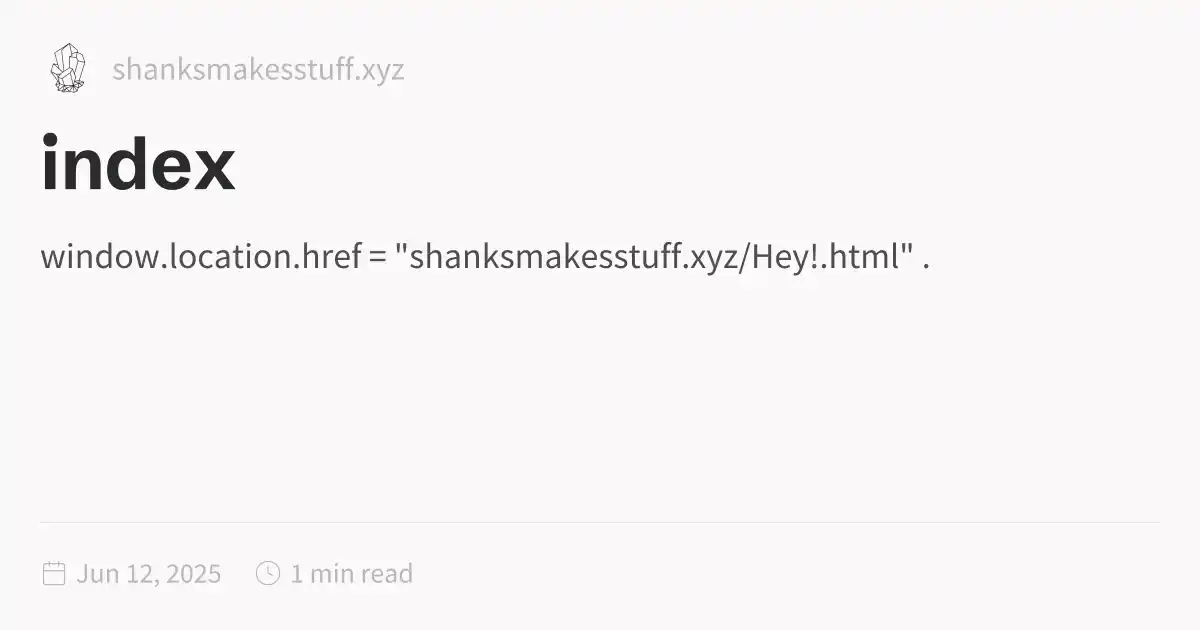
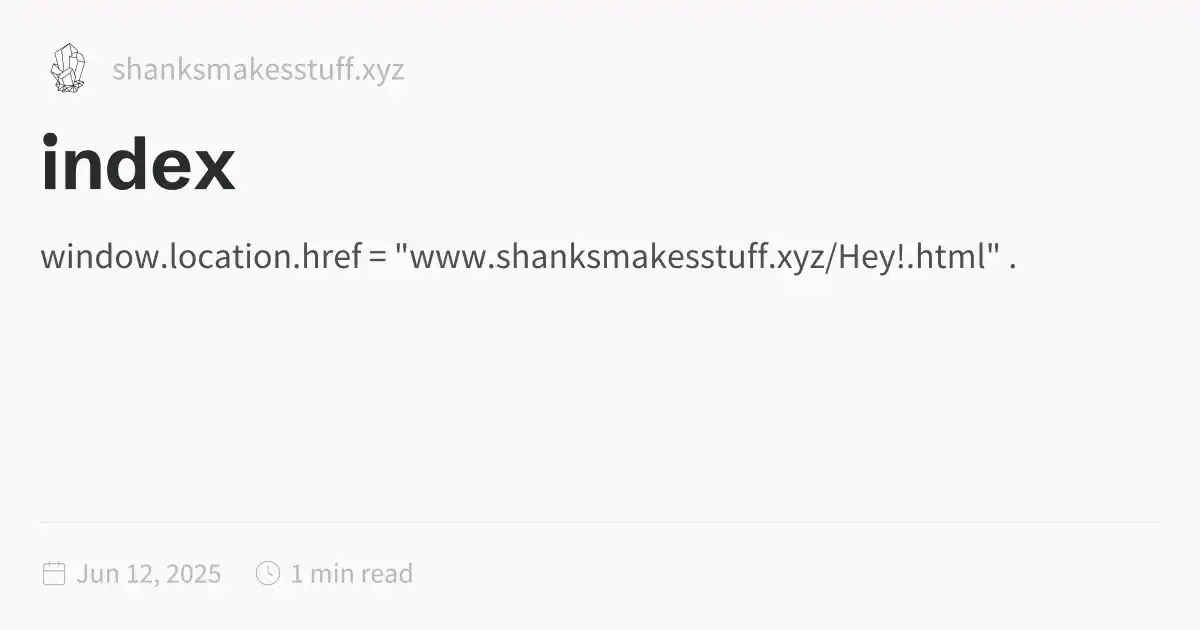
2025-06-12_1924

Changed region(s): [[0.3392, 0.3619, 0.8325, 0.4524]]

diff --git a/index.html b/index.html
@@ -1,5 +1,5 @@
 <!DOCTYPE html>
-<html lang="en"><head><title>index</title><meta charset="utf-8"/><link rel="preconnect" href="https://fonts.googleapis.com"/><link rel="preconnect" href="https://fonts.gstatic.com"/><link rel="stylesheet" href="https://fonts.googleapis.com/css2?family=Schibsted Grotesk:wght@400;700&amp;family=Source Sans Pro:ital,wght@0,400;0,600;1,400;1,600&amp;family=IBM Plex Mono:wght@400;600&amp;display=swap"/><link rel="preconnect" href="https://cdnjs.cloudflare.com" crossorigin="anonymous"/><meta name="viewport" content="width=device-width, initial-scale=1.0"/><meta name="og:site_name" content="ShanksMakesStuff"/><meta property="og:title" content="index"/><meta property="og:type" content="website"/><meta name="twitter:card" content="summary_large_image"/><meta name="twitter:title" content="index"/><meta name="twitter:description" content="window.location.href = &quot;shanksmakesstuff.xyz/Hey!.html&quot; ."/><meta property="og:description" content="window.location.href = &quot;shanksmakesstuff.xyz/Hey!.html&quot; ."/><meta property="og:image:alt" content="window.location.href = &quot;shanksmakesstuff.xyz/Hey!.html&quot; ."/><meta property="twitter:domain" content="shanksmakesstuff.xyz"/><meta property="og:url" content="https://shanksmakesstuff.xyz/index"/><meta property="twitter:url" content="https://shanksmakesstuff.xyz/index"/><link rel="icon" href="./static/icon.png"/><meta name="description" content="window.location.href = &quot;shanksmakesstuff.xyz/Hey!.html&quot; ."/><meta name="generator" content="Quartz"/><link href="./index.css" rel="stylesheet" type="text/css" spa-preserve/><style>.expand-button {
+<html lang="en"><head><title>index</title><meta charset="utf-8"/><link rel="preconnect" href="https://fonts.googleapis.com"/><link rel="preconnect" href="https://fonts.gstatic.com"/><link rel="stylesheet" href="https://fonts.googleapis.com/css2?family=Schibsted Grotesk:wght@400;700&amp;family=Source Sans Pro:ital,wght@0,400;0,600;1,400;1,600&amp;family=IBM Plex Mono:wght@400;600&amp;display=swap"/><link rel="preconnect" href="https://cdnjs.cloudflare.com" crossorigin="anonymous"/><meta name="viewport" content="width=device-width, initial-scale=1.0"/><meta name="og:site_name" content="ShanksMakesStuff"/><meta property="og:title" content="index"/><meta property="og:type" content="website"/><meta name="twitter:card" content="summary_large_image"/><meta name="twitter:title" content="index"/><meta name="twitter:description" content="window.location.href = &quot;www.shanksmakesstuff.xyz/Hey!.html&quot; ."/><meta property="og:description" content="window.location.href = &quot;www.shanksmakesstuff.xyz/Hey!.html&quot; ."/><meta property="og:image:alt" content="window.location.href = &quot;www.shanksmakesstuff.xyz/Hey!.html&quot; ."/><meta property="twitter:domain" content="shanksmakesstuff.xyz"/><meta property="og:url" content="https://shanksmakesstuff.xyz/index"/><meta property="twitter:url" content="https://shanksmakesstuff.xyz/index"/><link rel="icon" href="./static/icon.png"/><meta name="description" content="window.location.href = &quot;www.shanksmakesstuff.xyz/Hey!.html&quot; ."/><meta name="generator" content="Quartz"/><link href="./index.css" rel="stylesheet" type="text/css" spa-preserve/><style>.expand-button {
   position: absolute;
   display: flex;
   float: right;
@@ -116,8 +116,8 @@ pre:hover > .expand-button {
   padding: 0 12px;
   font-size: 14px;
 }
[1 lines of base64/hex data omitted]
-	window.location.href = &quot;shanksmakesstuff.xyz/Hey!.html&quot; 
[1 lines of base64/hex data omitted]
+	window.location.href = &quot;https://www.shanksmakesstuff.xyz/Hey!.html&quot; 
 </script></article><hr/><div class="page-footer"></div></div><div class="right sidebar"><div class="graph"><h3>Graph View</h3><div class="graph-outer"><div class="graph-container" data-cfg="{&quot;drag&quot;:true,&quot;zoom&quot;:true,&quot;depth&quot;:1,&quot;scale&quot;:1.1,&quot;repelForce&quot;:0.5,&quot;centerForce&quot;:0.3,&quot;linkDistance&quot;:30,&quot;fontSize&quot;:0.6,&quot;opacityScale&quot;:1,&quot;showTags&quot;:true,&quot;removeTags&quot;:[],&quot;focusOnHover&quot;:false,&quot;enableRadial&quot;:false}"></div><button class="global-graph-icon" aria-label="Global Graph"><svg version="1.1" xmlns="http://www.w3.org/2000/svg" xmlns:xlink="http://www.w3.org/1999/xlink" x="0px" y="0px" viewBox="0 0 55 55" fill="currentColor" xml:space="preserve"><path d="M49,0c-3.309,0-6,2.691-6,6c0,1.035,0.263,2.009,0.726,2.86l-9.829,9.829C32.542,17.634,30.846,17,29,17
                 s-3.542,0.634-4.898,1.688l-7.669-7.669C16.785,10.424,17,9.74,17,9c0-2.206-1.794-4-4-4S9,6.794,9,9s1.794,4,4,4
                 c0.74,0,1.424-0.215,2.019-0.567l7.669,7.669C21.634,21.458,21,23.154,21,25s0.634,3.542,1.688,4.897L10.024,42.562
